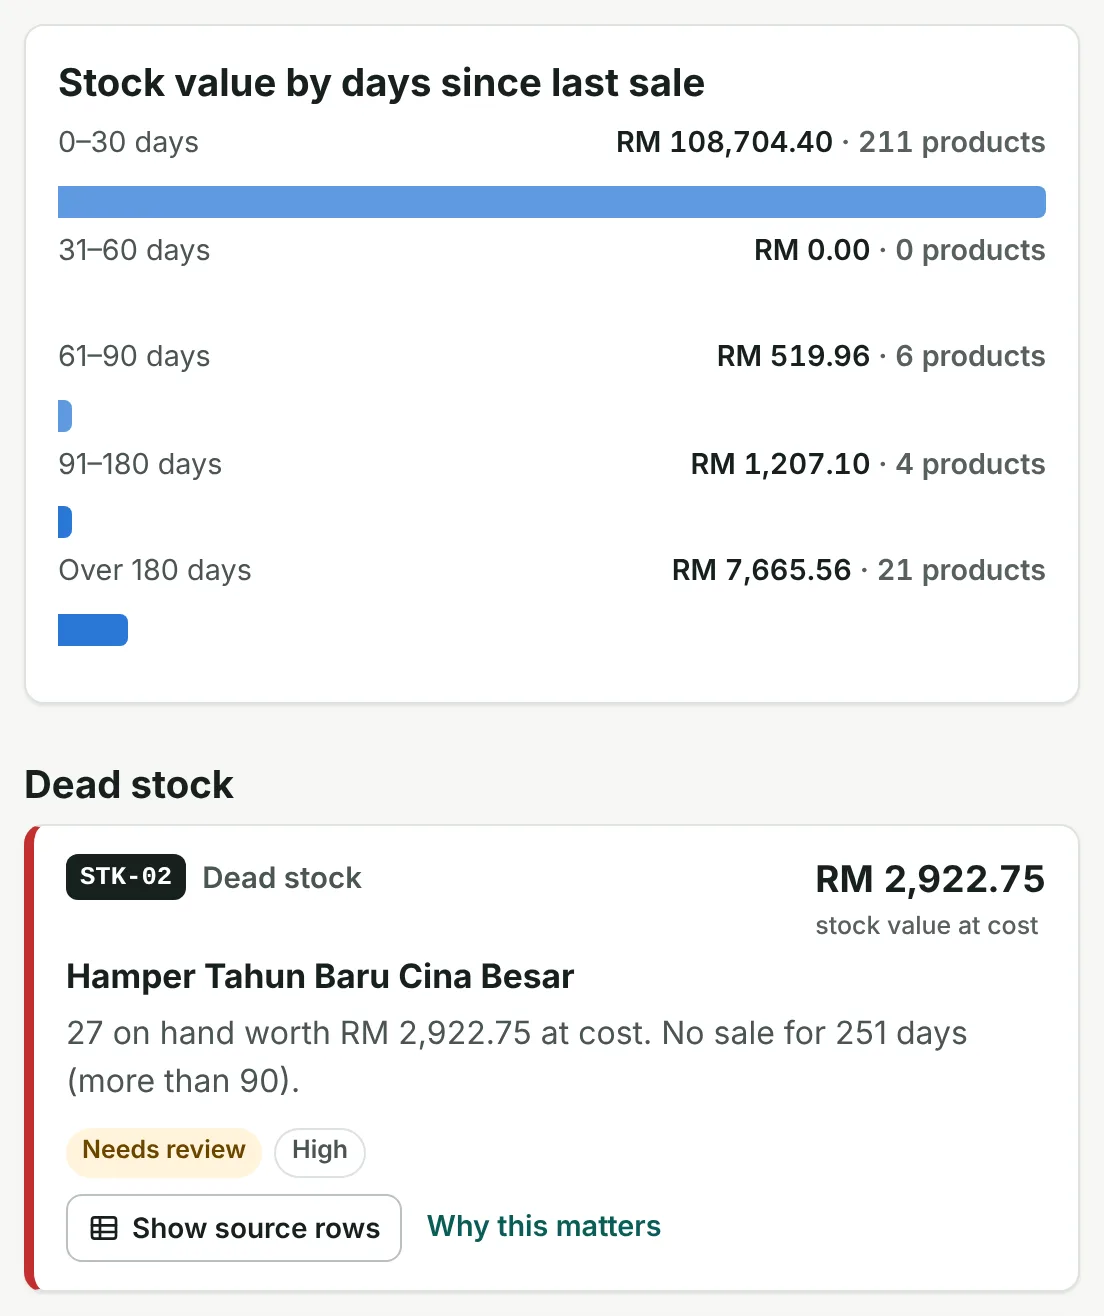
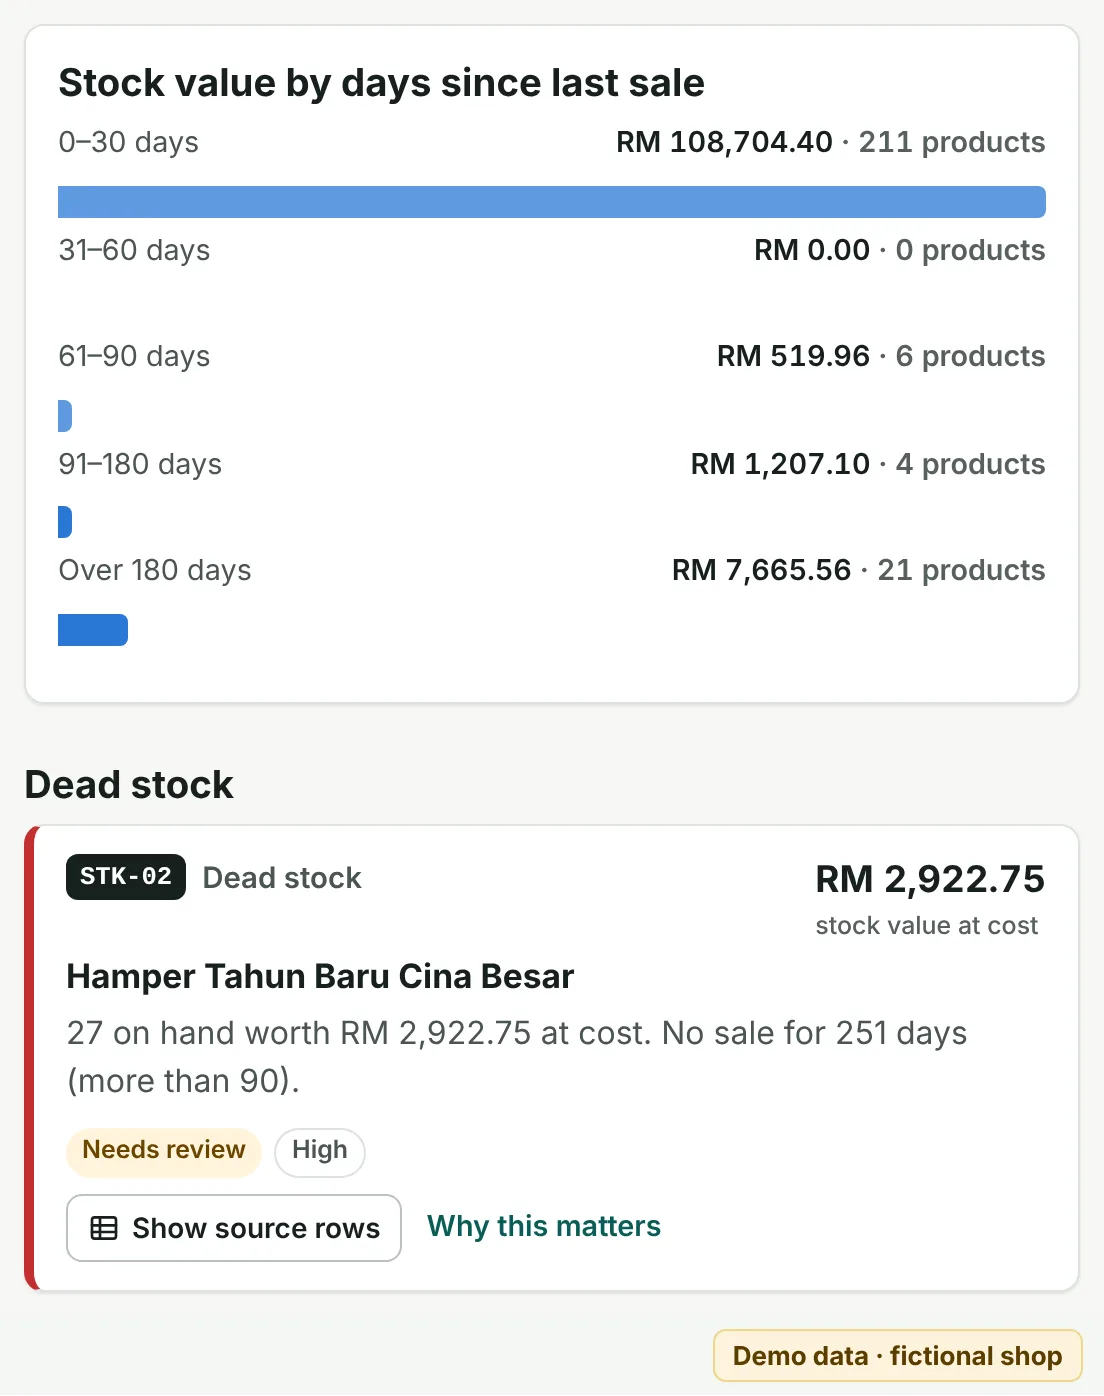
fix: demo-data badge on every captured image; soften landing copy
- capture-assets.mjs burns a "Demo data · fictional shop" / 示范资料 badge
  onto a strip below every screenshot crop, so reused crops stay labelled
- Landing page: softened three generalisations to non-absolute wording;
  image dimensions updated
- BRIEF and social calendar: rule for labelling hand-made crops
- README: point to marketing/; decisions logged

Claude-Session: https://claude.ai/code/session_01PxCrkq1Cw9UZ9oQpJJWH4L

diff --git a/marketing/landing/index.html b/marketing/landing/index.html
@@ -90,9 +90,9 @@
         </div>
 
         <figure class="hero-shot">
-          <img class="variant" data-variant="a" data-img="profit" src="assets/en-profit.webp" width="1104" height="1072" alt="Screenshot: products sold below cost, with the average selling price and unit cost for each (demo data)." />
-          <img class="variant" data-variant="b" data-img="stock" src="assets/en-stock.webp" width="1104" height="1316" alt="Screenshot: stock value grouped by days since last sale, and a dead-stock finding (demo data)." />
-          <img class="variant" data-variant="c" data-img="suppliers" src="assets/en-suppliers.webp" width="1104" height="1378" alt="Screenshot: possible duplicate supplier invoices with the amount involved (demo data)." />
+          <img class="variant" data-variant="a" data-img="profit" src="assets/en-profit.webp" width="1104" height="1152" alt="Screenshot: products sold below cost, with the average selling price and unit cost for each (demo data)." />
+          <img class="variant" data-variant="b" data-img="stock" src="assets/en-stock.webp" width="1104" height="1396" alt="Screenshot: stock value grouped by days since last sale, and a dead-stock finding (demo data)." />
+          <img class="variant" data-variant="c" data-img="suppliers" src="assets/en-suppliers.webp" width="1104" height="1458" alt="Screenshot: possible duplicate supplier invoices with the amount involved (demo data)." />
           <figcaption>
             <span class="tag-demo"><span class="en">Demo data</span><span class="zh" lang="zh-Hans">示范资料</span></span>
             <span class="en">Fictional shop, made-up numbers. Not a customer's results.</span>
@@ -110,14 +110,14 @@
           <span class="zh" lang="zh-Hans">答案就在你的报表里，只是没人有空去挖。</span>
         </h2>
         <p>
-          <span class="en">Most retail owners want the same thing: lose less, keep more. But the clues are spread across POS exports, stock lists and supplier invoices:</span>
-          <span class="zh" lang="zh-Hans">开店的老板想要的都一样：少亏一点，多赚一点。可是线索散落在 POS 报表、库存表和供应商发票里：</span>
+          <span class="en">Lose less, keep more. The clues are usually spread across POS exports, stock lists and supplier invoices:</span>
+          <span class="zh" lang="zh-Hans">少亏一点，多赚一点。线索通常散落在 POS 报表、库存表和供应商发票里：</span>
         </p>
         <ul class="problems">
           <li>
             <strong><span class="en">Thin or negative margins</span><span class="zh" lang="zh-Hans">毛利太薄，甚至亏本卖</span></strong>
-            <span class="en">A supplier raises the cost, the shelf price stays the same, and nobody notices until year-end.</span>
-            <span class="zh" lang="zh-Hans">供应商涨了价，货架价钱没改，到年底才发现。</span>
+            <span class="en">A supplier raises the cost, the shelf price stays the same, and it may go unnoticed until year-end.</span>
+            <span class="zh" lang="zh-Hans">供应商涨了价，货架价钱没改，可能到年底才发现。</span>
           </li>
           <li>
             <strong><span class="en">Cash stuck on the shelf</span><span class="zh" lang="zh-Hans">现金压在货架上</span></strong>
@@ -126,8 +126,8 @@
           </li>
           <li>
             <strong><span class="en">Supplier invoice slips</span><span class="zh" lang="zh-Hans">供应商发票出错</span></strong>
-            <span class="en">An invoice keyed in twice or paid twice is easy to miss, and is often found only at audit, if at all.</span>
-            <span class="zh" lang="zh-Hans">同一张发票输入两次、付了两次，很容易漏掉，往往要到审计才发现，甚至一直没人发现。</span>
+            <span class="en">An invoice keyed in twice or paid twice is easy to miss, and may only surface at audit, if at all.</span>
+            <span class="zh" lang="zh-Hans">同一张发票输入两次、付了两次，很容易漏掉，可能要到审计才发现，甚至一直没人发现。</span>
           </li>
           <li>
             <strong><span class="en">Tight cash weeks</span><span class="zh" lang="zh-Hans">现金紧的那几个星期</span></strong>
@@ -226,11 +226,11 @@
         </figure>
         <div class="shots">
           <figure>
-            <img data-img="health" src="assets/en-health.webp" width="1200" height="654" loading="lazy" alt="Screenshot: health check summary with five headline numbers in RM (demo data)." />
+            <img data-img="health" src="assets/en-health.webp" width="1200" height="732" loading="lazy" alt="Screenshot: health check summary with five headline numbers in RM (demo data)." />
             <figcaption><span class="en">The one-page health check (demo data)</span><span class="zh" lang="zh-Hans">一页健康检查（示范资料）</span></figcaption>
           </figure>
           <figure>
-            <img data-img="evidence" src="assets/en-evidence.webp" width="1200" height="946" loading="lazy" alt="Screenshot: the invoice rows behind a possible duplicate, with spreadsheet row numbers (demo data)." />
+            <img data-img="evidence" src="assets/en-evidence.webp" width="1200" height="1028" loading="lazy" alt="Screenshot: the invoice rows behind a possible duplicate, with spreadsheet row numbers (demo data)." />
             <figcaption><span class="en">The rows behind a possible duplicate invoice: the same lines keyed in twice (demo data)</span><span class="zh" lang="zh-Hans">一张可能重复发票背后的原始行：同样的内容输入了两次（示范资料）</span></figcaption>
           </figure>
         </div>

diff --git a/docs/DECISIONS.md b/docs/DECISIONS.md
@@ -95,3 +95,5 @@ Made unattended; each decision logged here instead of asking.
 - **Tracking is two CSVs, not a CRM.** `leads.csv` (one row per person, with ref code, pitch variant, demo booked, pilot paid) and `weekly-scorecard.csv` (week × pitch with formulas; the week 3 Total row shows STOP/Continue). This is enough for tens of leads and works in Google Sheets or Excel.
 - **Decision rule as written by the founder:** 0 paid pilots after 3 weeks → stop and rethink. "Paid" means RM300 received. Day 1 is the first ad or post. It overrides all ad metrics. "Rethink" comes with five written questions so the stop leads to a decision rather than drift.
 - **The template has two synthetic EXAMPLE rows** (dummy number `60000000000`, no real people). The live leads sheet holds personal data, so the README says to keep it out of the repository (PDPA).
+- **Every captured image carries its own "Demo data · fictional shop" badge** on a strip below the screenshot (never over data), added during capture, because crops get reused in posts and ads away from the landing page's captions. Crops made by hand from `docs/screenshots/` must keep the app's demo banner or get the same badge (BRIEF §5).
+- **Final copy review** (by hand, plus `npm run marketing:check`): softened three landing-page generalisations ("most retail owners want…", "nobody notices until year-end", "often found only at audit") to non-absolute wording, removed implied customer claims ("many owners share the report"), and checked every demo figure against `demo/ANSWER_KEY.md` and the app screens. "Catch costly supplier invoice mistakes" is the founder's own pitch wording and stays; the ads use "Catch supplier invoice mistakes" as the headline.

diff --git a/marketing/social/posts.md b/marketing/social/posts.md
@@ -4,6 +4,8 @@ Generated from `marketing/scripts/social-data.mjs` by `npm run marketing:social`
 
 **Rules:** read [`../BRIEF.md`](../BRIEF.md). Every figure is from the **fictional demo shop** and says so in the same paragraph. No testimonials, no claims about AI or wrongdoing, no savings promises. Day 13 uses the accountant's name and photo: post it only after they approve.
 
+**Visuals:** the crops in `marketing/landing/assets/` already carry a "Demo data · fictional shop" / "示范资料 · 虚构店铺" badge. If you crop a screenshot from `docs/screenshots/` yourself, keep the yellow "Demo data" banner in the crop or add the same badge.
+
 | Platform | Language | Format | Call to action | Suggested time |
 |---|---|---|---|---|
 | Facebook page | One bilingual post (EN, then 中文) | Text + visual | Landing link with a per-post ref code (`src=fb-dNN`) | 21:00 (after closing) |

diff --git a/marketing/BRIEF.md b/marketing/BRIEF.md
@@ -49,6 +49,8 @@ You may quote these **only with a "demo data" / "示范资料" label in the same
 | Biggest single dead-stock item: leftover large CNY hampers (27 units) | RM 2,922.75 |
 | Example below-cost product: supplier cost up 15%, shelf price unchanged | RM 759.78 |
 
+**Images too:** the crops in `landing/assets/` carry a "Demo data · fictional shop" badge. A crop you make from `docs/screenshots/` must keep the app's yellow "Demo data" banner or get the same badge.
+
 Good: *"In our demo shop (fictional data), the check flagged RM 4,783.20 in possible duplicate invoices."*
 Bad: *"Shops lose RM 4,783 to duplicate invoices."* / *"A Penang minimart found RM 9,392."* <!-- copy-check: ignore -->
 

diff --git a/README.md b/README.md
@@ -116,6 +116,7 @@ src/i18n       English, 中文, Bahasa Melayu
 src/ui         React pages and components
 tests/         unit, accuracy, perf      e2e/   Playwright
 sales-kit/     offer, interview script, WhatsApp messages, objections, pilot agreement draft, demo script (EN + 中文)
+marketing/     landing page, demo videos, 30-day social calendar, ads + RM500 test plan, lead tracking (see marketing/README.md)
 research/      synthetic objection rehearsal — NOT market validation
 docs/          PLAN, PROGRESS, DECISIONS, LIMITATIONS, screenshots
 .claude/       selected ECC agents, skills and rules used to build this (no hooks)
